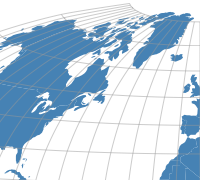
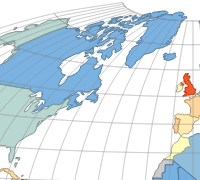
Changed map text

diff --git a/www/ex/projection-full.html b/www/ex/projection-full.html
@@ -22,32 +22,45 @@
       </select>
     </div>
     <script type="text/javascript+protovis">
-  // Generate a random value to visualize (for now).
-  countries.forEach(function(c) c.value = (stats[c.code].area != 0)?stats[c.code].pop/(stats[c.code].area*10):0);
 
-  // Note: the aspect ratio is 5/3 and can be rescaled.
-  var w = 860, h = 516;
-  var geo = pv.Geo.scale("identity").range({x:0, y:0}, {x:w, y:h});
-  var col = pv.Scale.linear(0, 400).range("green", "red");
-  
+  /*
+   * A diverging color scale, using previously-computed quantiles of population
+   * densities; in the future, we might use a quantile scale here to do this
+   * automatically. Map colors based on www.ColorBrewer.org, by Cynthia A. Brewer,
+   * Penn State.
+   */
+  var fill = pv.Scale.linear()
+      .domain(140, 650, 1900)
+      .range("#91bfdb", "#ffffbf", "#fc8d59");
+
+  /* Precompute the country's population density and color. */
+  countries.forEach(function(c) {
+    c.color = stats[c.code].area
+        ? fill(stats[c.code].pop / stats[c.code].area)
+        : "#ccc"; // unknown
+  });
+
+  var w = 860,
+      h = 3 / 5 * w,
+      geo = pv.Geo.scale().range(w, h);
+
   var vis = new pv.Panel()
       .width(w)
-      .height(h)
-      .fillStyle("#EEF");
+      .height(h);
 
-  var country = vis.add(pv.Panel)
-      .data(countries);
-
-  country.add(pv.Panel)
+  /* Countries. */
+  vis.add(pv.Panel)
+      .data(countries)
+    .add(pv.Panel)
       .data(function(c) c.borders)
     .add(pv.Line)
-      .data(function(l) l)
+      .data(function(b) b)
       .left(geo.x)
       .top(geo.y)
-      .lineWidth(.5)
-      .strokeStyle("white")
-      .fillStyle(function(d,l,c) col(c.value))
-      .title(function(d,l,c) c.name + ' (' + c.value.toFixed(2) + ' people/km^2)');
+      .title(function(d, b, c) c.name)
+      .fillStyle(function(d, b, c) c.color)
+      .strokeStyle(function() this.fillStyle().darker())
+      .lineWidth(1);
       
   /* Latitude ticks. */
   vis.add(pv.Panel)
@@ -71,13 +84,8 @@
       .lineWidth(.5)
       .interpolate("cardinal");
 
-   var start = new Date();
    vis.render();
-   var end = new Date;
-   var out = document.getElementById('msg');
-   out.innerHTML = "Render time: " + (end - start) + 'ms';
     
     </script>
-    <div id="msg">Rendering...</div>
   </div></div></body>
 </html>

diff --git a/www/ex/index.html b/www/ex/index.html
@@ -278,13 +278,13 @@
         <img src="oakland-sm.png?3.2" width="200" height="180">
         Oakland Crimespotting
       </a>
-      <a href="symbol.html" class="item">
-        <img src="symbol-sm.png?3.2" width="200" height="180">
-        Symbol Maps
-      </a>
       <a href="choropleth.html" class="item">
         <img src="choropleth-sm.png?3.2" width="200" height="180">
         Choropleth Maps
+      </a>
+      <a href="symbol.html" class="item">
+        <img src="symbol-sm.png?3.2" width="200" height="180">
+        Symbol Maps
       </a>
       <a href="cartogram.html" class="item">
         <img src="cartogram-sm.png?3.2" width="200" height="180">

diff --git a/www/ex/dymax-full.html b/www/ex/dymax-full.html
@@ -8,7 +8,7 @@
     <style type="text/css">
       #fig {
         width: 860px;
-        height: 540px;
+        height: 516px;
       }
     </style>
   </head>
@@ -68,13 +68,8 @@
           .strokeStyle("#bbb")
           .lineWidth(.5);
 
-      var start = new Date();
       vis.render();
-      var end = new Date;
-      var out = document.getElementById('msg');
-      out.innerHTML = "Render time: " + (end - start) + 'ms';
     
     </script>
-    <div id="msg">Rendering...</div>
   </div></div></body>
 </html>
